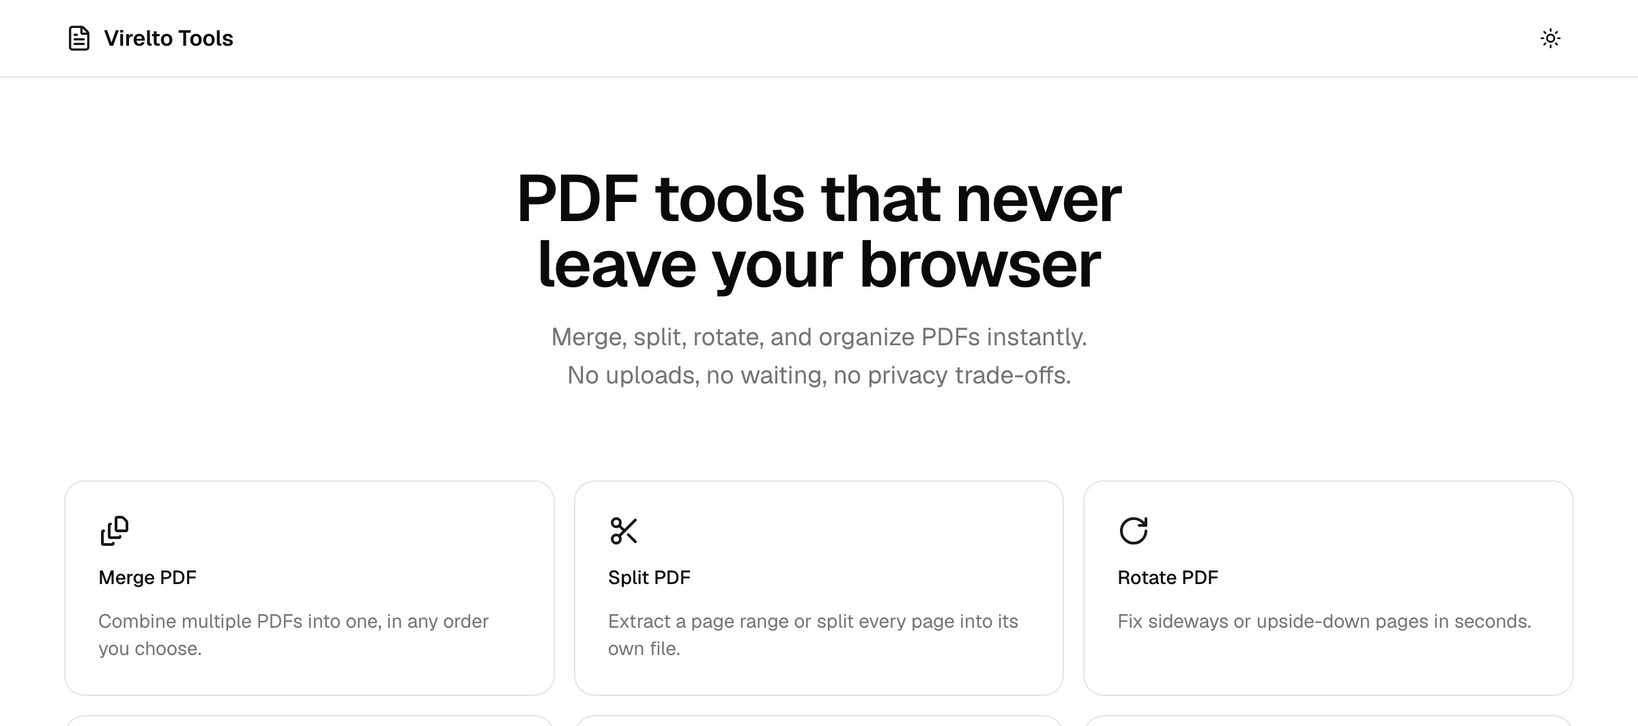
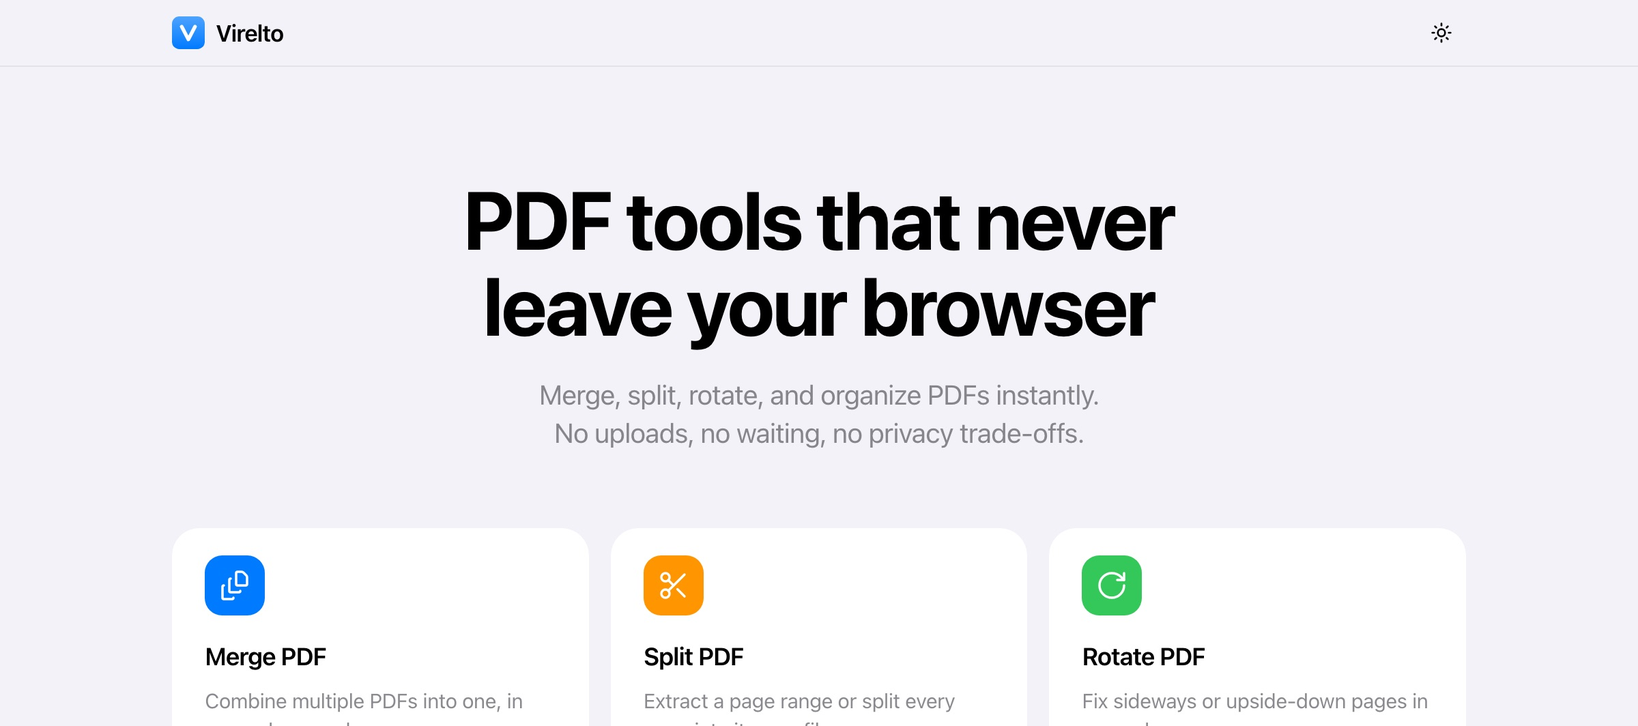
Add Clackey, skeleton image loading, and refresh Virelto
Add the Clackey website card and order the website cards Clackey,
Virelto Tools, Bizu (in the project list and profile.json).

Show a shimmering skeleton while each card's first screenshot loads,
instead of the accent colour. A card with no screenshot, or one whose
image fails to load, falls back to its accent colour.

Update the Virelto screenshot to the site's new look.

diff --git a/css/style.min.css b/css/style.min.css
@@ -1,1 +1,1 @@
-html,body,div,span,applet,object,iframe,h1,h2,h3,h4,h5,h6,p,blockquote,pre,a,abbr,acronym,address,big,cite,code,del,dfn,em,img,ins,kbd,q,s,samp,small,strike,strong,sub,sup,tt,var,b,u,i,center,dl,dt,dd,ol,ul,li,fieldset,form,label,legend,table,caption,tbody,tfoot,thead,tr,th,td,article,aside,canvas,details,embed,figure,figcaption,footer,header,hgroup,menu,nav,output,ruby,section,summary,time,mark,audio,video{margin:0;padding:0;border:0;font-size:100%;font:inherit;vertical-align:baseline}article,aside,details,figcaption,figure,footer,header,hgroup,menu,nav,section,main{display:block}body{line-height:1}ol,ul{list-style:none}blockquote,q{quotes:none}blockquote:before,blockquote:after,q:before,q:after{content:"";content:none}table{border-collapse:collapse;border-spacing:0}*,*::before,*::after{box-sizing:border-box}html,body{font-family:-apple-system,BlinkMacSystemFont,"SF Pro Display","Helvetica Neue",Arial,sans-serif;background:#fff;color:#1d1d1f;scroll-behavior:smooth;user-select:none}html{font-size:112.5%}body{background:rgba(0,0,0,0)}a{color:inherit;text-decoration:none}a:focus-visible,button:focus-visible{outline:2px solid #b81828;outline-offset:3px;border-radius:2px}.skip-link{position:absolute;top:-100px;left:1rem;z-index:1000;padding:.75rem 1.25rem;background:#b81828;color:#fff;border-radius:8px;font-size:.9rem;font-weight:600;transition:top .2s ease}.skip-link:focus{top:1rem}h1,h2{font-family:"Fraunces",Georgia,serif;font-weight:600;letter-spacing:-0.01em}.accent{color:#b81828}.reveal{opacity:0;transform:translateY(24px);transition:opacity .8s ease,transform .8s ease}.reveal.is-visible{opacity:1;transform:translateY(0)}.scroll-progress{position:fixed;top:0;left:0;height:2px;width:0%;background:#58595b;z-index:100;transition:width .1s linear}.stagger-item{opacity:0;transform:translateY(16px);transition:opacity .6s ease,transform .6s ease}.reveal.is-visible .stagger-item{opacity:1;transform:translateY(0)}.reveal.is-visible .stagger-item:nth-child(1){transition-delay:0s}.reveal.is-visible .stagger-item:nth-child(2){transition-delay:0.06s}.reveal.is-visible .stagger-item:nth-child(3){transition-delay:0.12s}.reveal.is-visible .stagger-item:nth-child(4){transition-delay:0.18s}.reveal.is-visible .stagger-item:nth-child(5){transition-delay:0.24s}.reveal.is-visible .stagger-item:nth-child(6){transition-delay:0.3s}.reveal.is-visible .stagger-item:nth-child(7){transition-delay:0.36s}.reveal.is-visible .stagger-item:nth-child(8){transition-delay:0.42s}.reveal.is-visible .stagger-item:nth-child(9){transition-delay:0.48s}.reveal.is-visible .stagger-item:nth-child(10){transition-delay:0.54s}.reveal.is-visible .stagger-item:nth-child(11){transition-delay:0.6s}.reveal.is-visible .stagger-item:nth-child(12){transition-delay:0.66s}.reveal.is-visible .stagger-item:nth-child(13){transition-delay:0.72s}.reveal.is-visible .stagger-item:nth-child(14){transition-delay:0.78s}.reveal.is-visible .stagger-item:nth-child(15){transition-delay:0.84s}.reveal.is-visible .stagger-item:nth-child(16){transition-delay:0.9s}.reveal.is-visible .stagger-item:nth-child(17){transition-delay:0.96s}.reveal.is-visible .stagger-item:nth-child(18){transition-delay:1.02s}.reveal.is-visible .stagger-item:nth-child(19){transition-delay:1.08s}.reveal.is-visible .stagger-item:nth-child(20){transition-delay:1.14s}.site-panel{position:fixed;top:0;right:0;width:35%;height:100vh;background:#2b2b2d;z-index:5;display:flex;align-items:center;justify-content:center;padding:3rem}.site-panel-text{max-width:380px;margin:0;text-align:center;font-family:"Caveat",cursive;font-weight:600;font-size:2.5rem;line-height:1.3;color:rgba(255,255,255,.85);opacity:0;transition:opacity .3s ease}.sr-only{position:absolute;width:1px;height:1px;margin:-1px;padding:0;overflow:hidden;clip:rect(0, 0, 0, 0);white-space:nowrap;border:0}.site-copyright{margin:5rem 0 0;color:#767676;font-size:.75rem}.site-content{width:65%;padding:0 4rem 0 7rem;overflow-x:clip}.site-logo{position:fixed;top:1.5rem;left:1.5rem;z-index:50;width:34px;cursor:pointer;--logo-progress: 0;transform:translateX(calc(-5.95px * var(--logo-progress))) translateY(calc((100vh - 3rem - 20.4px) * var(--logo-progress))) rotate(calc(180deg * var(--logo-progress))) scale(calc(1 - 0.35 * var(--logo-progress)));transition:transform .1s linear}.hero-name{font-size:3rem}.hero-title{margin-top:.6rem;font-size:1.2rem;color:#767676}.hero-role{display:inline-block;transition:opacity .3s ease}.dot-field{position:fixed;top:0;left:0;width:65%;height:100vh;z-index:-1;pointer-events:none}.cursor-ring{position:fixed;top:0;left:0;width:18px;height:18px;margin:-9px 0 0 -9px;border:1.5px solid #fff;border-radius:50%;pointer-events:none;z-index:9999;mix-blend-mode:difference;will-change:transform;opacity:0;transition:opacity .2s ease,width .2s ease,height .2s ease,margin .2s ease}.cursor-ring.is-visible{opacity:1}.cursor-ring.is-active{width:32px;height:32px;margin:-16px 0 0 -16px}html.has-custom-cursor,html.has-custom-cursor *{cursor:none !important}html.has-custom-cursor #foliobot{--fb-cursor: none}.hero-links{position:fixed;top:1.5rem;right:1.5rem;padding-right:3px;z-index:50;display:flex;align-items:center;gap:1.75rem}.hero-links a{color:rgba(255,255,255,.65);font-size:.95rem;font-weight:500;transition:color .3s ease}.hero-links a:hover{color:#fff}.hero-links a.active{color:#b81828}.section{min-height:100vh;display:flex;flex-direction:column;justify-content:center;padding:4rem 0}.section h2{font-size:2.75rem;margin-bottom:2rem}.about-text{font-size:1.35rem;line-height:1.7;color:#767676}.social-links{display:flex;gap:1.5rem}.social-links a{color:#6e6e73;font-size:.9rem;transition:color .3s ease}.social-links a:hover{color:#b81828}.contact-section{text-align:left}.contact-statement{font-family:"Fraunces",Georgia,serif;font-size:2.25rem;font-weight:500;line-height:1.35;max-width:520px}.contact-email{display:inline-block;margin-top:1.75rem;font-family:"Fraunces",Georgia,serif;font-size:1.85rem;font-weight:600;color:#b81828;transition:opacity .3s ease}.contact-email:hover{opacity:.75}.contact-social{margin-top:2.5rem}.experience-list{display:flex;flex-direction:column;gap:2rem}.experience-list li{padding-bottom:1.5rem;border-bottom:1px solid #d2d2d7}.experience-list li:last-child{border-bottom:none;padding-bottom:0}.experience-head{display:flex;justify-content:space-between;align-items:baseline;flex-wrap:wrap;gap:.5rem}.experience-role{font-size:1.1rem;font-weight:600}.experience-period{color:#6e6e73;font-size:.85rem}.experience-company{display:block;color:#b81828;font-size:.9rem;margin:.2rem 0 .6rem}.experience-list p{color:#767676;font-size:.95rem;line-height:1.55}.projects-list{display:grid;grid-template-columns:repeat(3, 1fr);gap:1.25rem}.project-item{min-width:0}.project-item a,.project-item div{display:flex;flex-direction:column;justify-content:flex-end;position:relative;overflow:hidden;aspect-ratio:600/1299;height:100%;padding:1.25rem;border-radius:16px;color:#fff;transition:transform .3s ease,box-shadow .3s ease}.project-item a:hover{transform:translateY(-4px);box-shadow:0 20px 32px -12px rgba(0,0,0,.35)}.project-item.one a,.project-item.one div{background:#b81828}.project-item.two a,.project-item.two div{background:#585858}.project-item.three a,.project-item.three div{background:#8a121e}.project-item.four a,.project-item.four div{background:#585858}.project-item.five a,.project-item.five div{background:#b81828}.project-item.six a,.project-item.six div{background:#0c4293}.project-item--wide{grid-column:1/-1}.project-item--wide a,.project-item--wide div{aspect-ratio:2/1}.project-gallery{position:absolute;inset:0;z-index:0;display:flex;overflow-x:auto;overflow-y:hidden;overscroll-behavior-x:contain;scroll-snap-type:x mandatory;-webkit-overflow-scrolling:touch;scrollbar-width:none}.project-gallery::-webkit-scrollbar{display:none}.project-shot{flex:0 0 100%;width:100%;height:100%;object-fit:cover;scroll-snap-align:start;display:block}.project-shot--landscape{object-fit:contain;background:#2b2b2d}.project-shade{position:absolute;inset:0;z-index:0;pointer-events:none;background:linear-gradient(to top, rgba(0, 0, 0, 0.8) 0%, rgba(0, 0, 0, 0.55) 18%, rgba(0, 0, 0, 0) 35%)}.project-icon{position:absolute;top:-16%;right:-12%;width:75%;max-height:130%;object-fit:contain;opacity:.28;filter:brightness(0) invert(1);-webkit-mask-image:radial-gradient(circle at 70% 30%, rgb(0, 0, 0) 0%, rgba(0, 0, 0, 0.5) 45%, rgba(0, 0, 0, 0) 75%);mask-image:radial-gradient(circle at 70% 30%, rgb(0, 0, 0) 0%, rgba(0, 0, 0, 0.5) 45%, rgba(0, 0, 0, 0) 75%);pointer-events:none;z-index:0}.project-name{position:relative;z-index:1;display:block;font-family:"Fraunces",Georgia,serif;font-size:1.15rem;font-weight:600;margin-bottom:.35rem}.project-desc{position:relative;z-index:1;display:block;color:rgba(255,255,255,.8);font-size:.8rem}.project-stats{position:relative;z-index:1;display:flex;flex-wrap:wrap;gap:.6rem;margin-top:.5rem}.project-stat{font-size:.72rem;letter-spacing:.02em;color:rgba(255,255,255,.7);background:rgba(255,255,255,.15);border-radius:999px;padding:.2rem .6rem}@media(prefers-reduced-motion: reduce){html{scroll-behavior:auto;scroll-snap-type:none}.reveal,.stagger-item,.project-item a,.contact-email,.social-links a,.hero-links a,.site-logo{transition:none !important}.reveal,.stagger-item{opacity:1 !important;transform:none !important}}@media(max-width: 900px){.site-panel{display:none}.dot-field{width:100%}.site-content{width:100%;padding:0 1.5rem}.site-topbar{position:sticky;top:0;z-index:55;display:flex;align-items:center;justify-content:space-between;gap:1rem;padding:1rem 1.5rem;background:#fff;transition:transform .3s ease}.site-topbar.is-hidden{transform:translateY(-100%)}.site-logo{position:static;display:block;width:32px;margin:0}.section{min-height:auto;justify-content:flex-start}.hero-links{position:static;margin:0;padding:0;gap:1.1rem;justify-content:flex-end;flex-wrap:nowrap}.hero-links a{color:#6e6e73;font-size:.85rem}.hero-links a:hover{color:#1d1d1f}.projects-list{grid-template-columns:repeat(2, 1fr)}.project-item--wide a,.project-item--wide div{aspect-ratio:16/10}}@media(min-width: 700px)and (max-width: 900px){.projects-list{grid-template-columns:repeat(3, 1fr)}}@media(max-width: 600px){html{font-size:100%}.hero-name{font-size:2.2rem}.hero-title{font-size:1rem}.section{padding:4rem 0}.section h2{font-size:2rem;margin-bottom:1.25rem}.about-text{font-size:1.05rem}.contact-statement{font-size:1.75rem}.contact-email{font-size:1.5rem}.projects-list{grid-template-columns:repeat(2, 1fr);gap:.75rem}}/*# sourceMappingURL=style.min.css.map */
+html,body,div,span,applet,object,iframe,h1,h2,h3,h4,h5,h6,p,blockquote,pre,a,abbr,acronym,address,big,cite,code,del,dfn,em,img,ins,kbd,q,s,samp,small,strike,strong,sub,sup,tt,var,b,u,i,center,dl,dt,dd,ol,ul,li,fieldset,form,label,legend,table,caption,tbody,tfoot,thead,tr,th,td,article,aside,canvas,details,embed,figure,figcaption,footer,header,hgroup,menu,nav,output,ruby,section,summary,time,mark,audio,video{margin:0;padding:0;border:0;font-size:100%;font:inherit;vertical-align:baseline}article,aside,details,figcaption,figure,footer,header,hgroup,menu,nav,section,main{display:block}body{line-height:1}ol,ul{list-style:none}blockquote,q{quotes:none}blockquote:before,blockquote:after,q:before,q:after{content:"";content:none}table{border-collapse:collapse;border-spacing:0}*,*::before,*::after{box-sizing:border-box}html,body{font-family:-apple-system,BlinkMacSystemFont,"SF Pro Display","Helvetica Neue",Arial,sans-serif;background:#fff;color:#1d1d1f;scroll-behavior:smooth;user-select:none}html{font-size:112.5%}body{background:rgba(0,0,0,0)}a{color:inherit;text-decoration:none}a:focus-visible,button:focus-visible{outline:2px solid #b81828;outline-offset:3px;border-radius:2px}.skip-link{position:absolute;top:-100px;left:1rem;z-index:1000;padding:.75rem 1.25rem;background:#b81828;color:#fff;border-radius:8px;font-size:.9rem;font-weight:600;transition:top .2s ease}.skip-link:focus{top:1rem}h1,h2{font-family:"Fraunces",Georgia,serif;font-weight:600;letter-spacing:-0.01em}.accent{color:#b81828}.reveal{opacity:0;transform:translateY(24px);transition:opacity .8s ease,transform .8s ease}.reveal.is-visible{opacity:1;transform:translateY(0)}.scroll-progress{position:fixed;top:0;left:0;height:2px;width:0%;background:#58595b;z-index:100;transition:width .1s linear}.stagger-item{opacity:0;transform:translateY(16px);transition:opacity .6s ease,transform .6s ease}.reveal.is-visible .stagger-item{opacity:1;transform:translateY(0)}.reveal.is-visible .stagger-item:nth-child(1){transition-delay:0s}.reveal.is-visible .stagger-item:nth-child(2){transition-delay:0.06s}.reveal.is-visible .stagger-item:nth-child(3){transition-delay:0.12s}.reveal.is-visible .stagger-item:nth-child(4){transition-delay:0.18s}.reveal.is-visible .stagger-item:nth-child(5){transition-delay:0.24s}.reveal.is-visible .stagger-item:nth-child(6){transition-delay:0.3s}.reveal.is-visible .stagger-item:nth-child(7){transition-delay:0.36s}.reveal.is-visible .stagger-item:nth-child(8){transition-delay:0.42s}.reveal.is-visible .stagger-item:nth-child(9){transition-delay:0.48s}.reveal.is-visible .stagger-item:nth-child(10){transition-delay:0.54s}.reveal.is-visible .stagger-item:nth-child(11){transition-delay:0.6s}.reveal.is-visible .stagger-item:nth-child(12){transition-delay:0.66s}.reveal.is-visible .stagger-item:nth-child(13){transition-delay:0.72s}.reveal.is-visible .stagger-item:nth-child(14){transition-delay:0.78s}.reveal.is-visible .stagger-item:nth-child(15){transition-delay:0.84s}.reveal.is-visible .stagger-item:nth-child(16){transition-delay:0.9s}.reveal.is-visible .stagger-item:nth-child(17){transition-delay:0.96s}.reveal.is-visible .stagger-item:nth-child(18){transition-delay:1.02s}.reveal.is-visible .stagger-item:nth-child(19){transition-delay:1.08s}.reveal.is-visible .stagger-item:nth-child(20){transition-delay:1.14s}.site-panel{position:fixed;top:0;right:0;width:35%;height:100vh;background:#2b2b2d;z-index:5;display:flex;align-items:center;justify-content:center;padding:3rem}.site-panel-text{max-width:380px;margin:0;text-align:center;font-family:"Caveat",cursive;font-weight:600;font-size:2.5rem;line-height:1.3;color:rgba(255,255,255,.85);opacity:0;transition:opacity .3s ease}.sr-only{position:absolute;width:1px;height:1px;margin:-1px;padding:0;overflow:hidden;clip:rect(0, 0, 0, 0);white-space:nowrap;border:0}.site-copyright{margin:5rem 0 0;color:#767676;font-size:.75rem}.site-content{width:65%;padding:0 4rem 0 7rem;overflow-x:clip}.site-logo{position:fixed;top:1.5rem;left:1.5rem;z-index:50;width:34px;cursor:pointer;--logo-progress: 0;transform:translateX(calc(-5.95px * var(--logo-progress))) translateY(calc((100vh - 3rem - 20.4px) * var(--logo-progress))) rotate(calc(180deg * var(--logo-progress))) scale(calc(1 - 0.35 * var(--logo-progress)));transition:transform .1s linear}.hero-name{font-size:3rem}.hero-title{margin-top:.6rem;font-size:1.2rem;color:#767676}.hero-role{display:inline-block;transition:opacity .3s ease}.dot-field{position:fixed;top:0;left:0;width:65%;height:100vh;z-index:-1;pointer-events:none}.cursor-ring{position:fixed;top:0;left:0;width:18px;height:18px;margin:-9px 0 0 -9px;border:1.5px solid #fff;border-radius:50%;pointer-events:none;z-index:9999;mix-blend-mode:difference;will-change:transform;opacity:0;transition:opacity .2s ease,width .2s ease,height .2s ease,margin .2s ease}.cursor-ring.is-visible{opacity:1}.cursor-ring.is-active{width:32px;height:32px;margin:-16px 0 0 -16px}html.has-custom-cursor,html.has-custom-cursor *{cursor:none !important}html.has-custom-cursor #foliobot{--fb-cursor: none}.hero-links{position:fixed;top:1.5rem;right:1.5rem;padding-right:3px;z-index:50;display:flex;align-items:center;gap:1.75rem}.hero-links a{color:rgba(255,255,255,.65);font-size:.95rem;font-weight:500;transition:color .3s ease}.hero-links a:hover{color:#fff}.hero-links a.active{color:#b81828}.section{min-height:100vh;display:flex;flex-direction:column;justify-content:center;padding:4rem 0}.section h2{font-size:2.75rem;margin-bottom:2rem}.about-text{font-size:1.35rem;line-height:1.7;color:#767676}.social-links{display:flex;gap:1.5rem}.social-links a{color:#6e6e73;font-size:.9rem;transition:color .3s ease}.social-links a:hover{color:#b81828}.contact-section{text-align:left}.contact-statement{font-family:"Fraunces",Georgia,serif;font-size:2.25rem;font-weight:500;line-height:1.35;max-width:520px}.contact-email{display:inline-block;margin-top:1.75rem;font-family:"Fraunces",Georgia,serif;font-size:1.85rem;font-weight:600;color:#b81828;transition:opacity .3s ease}.contact-email:hover{opacity:.75}.contact-social{margin-top:2.5rem}.experience-list{display:flex;flex-direction:column;gap:2rem}.experience-list li{padding-bottom:1.5rem;border-bottom:1px solid #d2d2d7}.experience-list li:last-child{border-bottom:none;padding-bottom:0}.experience-head{display:flex;justify-content:space-between;align-items:baseline;flex-wrap:wrap;gap:.5rem}.experience-role{font-size:1.1rem;font-weight:600}.experience-period{color:#6e6e73;font-size:.85rem}.experience-company{display:block;color:#b81828;font-size:.9rem;margin:.2rem 0 .6rem}.experience-list p{color:#767676;font-size:.95rem;line-height:1.55}.projects-list{display:grid;grid-template-columns:repeat(3, 1fr);gap:1.25rem}.project-item{min-width:0}.project-item a,.project-item div{display:flex;flex-direction:column;justify-content:flex-end;position:relative;overflow:hidden;aspect-ratio:600/1299;height:100%;padding:1.25rem;border-radius:16px;color:#fff;background:#2b2b2d;transition:transform .3s ease,box-shadow .3s ease}.project-item a:hover{transform:translateY(-4px);box-shadow:0 20px 32px -12px rgba(0,0,0,.35)}.project-item.is-loading a,.project-item.is-loading div{background:linear-gradient(100deg, #2b2b2d 30%, #3d3d40 50%, #2b2b2d 70%);background-size:200% 100%;animation:project-skeleton 2s linear infinite}.project-item.is-loading .project-gallery{opacity:0}.project-item.is-fallback.one a,.project-item.is-fallback.one div{background:#b81828}.project-item.is-fallback.two a,.project-item.is-fallback.two div{background:#585858}.project-item.is-fallback.three a,.project-item.is-fallback.three div{background:#8a121e}.project-item.is-fallback.four a,.project-item.is-fallback.four div{background:#585858}.project-item.is-fallback.five a,.project-item.is-fallback.five div{background:#b81828}.project-item.is-fallback.six a,.project-item.is-fallback.six div{background:#0c4293}@keyframes project-skeleton{from{background-position:200% 0}to{background-position:-200% 0}}.project-item--wide{grid-column:1/-1}.project-item--wide a,.project-item--wide div{aspect-ratio:2/1}.project-gallery{position:absolute;inset:0;z-index:0;display:flex;overflow-x:auto;overflow-y:hidden;overscroll-behavior-x:contain;scroll-snap-type:x mandatory;-webkit-overflow-scrolling:touch;scrollbar-width:none;transition:opacity .4s ease}.project-gallery::-webkit-scrollbar{display:none}.project-shot{flex:0 0 100%;width:100%;height:100%;object-fit:cover;scroll-snap-align:start;display:block}.project-shot--landscape{object-fit:contain;background:#2b2b2d}.project-shade{position:absolute;inset:0;z-index:0;pointer-events:none;background:linear-gradient(to top, rgba(0, 0, 0, 0.8) 0%, rgba(0, 0, 0, 0.55) 18%, rgba(0, 0, 0, 0) 35%)}.project-icon{position:absolute;top:-16%;right:-12%;width:75%;max-height:130%;object-fit:contain;opacity:.28;filter:brightness(0) invert(1);-webkit-mask-image:radial-gradient(circle at 70% 30%, rgb(0, 0, 0) 0%, rgba(0, 0, 0, 0.5) 45%, rgba(0, 0, 0, 0) 75%);mask-image:radial-gradient(circle at 70% 30%, rgb(0, 0, 0) 0%, rgba(0, 0, 0, 0.5) 45%, rgba(0, 0, 0, 0) 75%);pointer-events:none;z-index:0}.project-name{position:relative;z-index:1;display:block;font-family:"Fraunces",Georgia,serif;font-size:1.15rem;font-weight:600;margin-bottom:.35rem}.project-desc{position:relative;z-index:1;display:block;color:rgba(255,255,255,.8);font-size:.8rem}.project-stats{position:relative;z-index:1;display:flex;flex-wrap:wrap;gap:.6rem;margin-top:.5rem}.project-stat{font-size:.72rem;letter-spacing:.02em;color:rgba(255,255,255,.7);background:rgba(255,255,255,.15);border-radius:999px;padding:.2rem .6rem}@media(prefers-reduced-motion: reduce){html{scroll-behavior:auto;scroll-snap-type:none}.reveal,.stagger-item,.project-item a,.project-gallery,.contact-email,.social-links a,.hero-links a,.site-logo{transition:none !important}.reveal,.stagger-item{opacity:1 !important;transform:none !important}.project-item.is-loading a,.project-item.is-loading div{animation:none}}@media(max-width: 900px){.site-panel{display:none}.dot-field{width:100%}.site-content{width:100%;padding:0 1.5rem}.site-topbar{position:sticky;top:0;z-index:55;display:flex;align-items:center;justify-content:space-between;gap:1rem;padding:1rem 1.5rem;background:#fff;transition:transform .3s ease}.site-topbar.is-hidden{transform:translateY(-100%)}.site-logo{position:static;display:block;width:32px;margin:0}.section{min-height:auto;justify-content:flex-start}.hero-links{position:static;margin:0;padding:0;gap:1.1rem;justify-content:flex-end;flex-wrap:nowrap}.hero-links a{color:#6e6e73;font-size:.85rem}.hero-links a:hover{color:#1d1d1f}.projects-list{grid-template-columns:repeat(2, 1fr)}.project-item--wide a,.project-item--wide div{aspect-ratio:16/10}}@media(min-width: 700px)and (max-width: 900px){.projects-list{grid-template-columns:repeat(3, 1fr)}}@media(max-width: 600px){html{font-size:100%}.hero-name{font-size:2.2rem}.hero-title{font-size:1rem}.section{padding:4rem 0}.section h2{font-size:2rem;margin-bottom:1.25rem}.about-text{font-size:1.05rem}.contact-statement{font-size:1.75rem}.contact-email{font-size:1.5rem}.projects-list{grid-template-columns:repeat(2, 1fr);gap:.75rem}}/*# sourceMappingURL=style.min.css.map */

diff --git a/css/scss/_base.scss b/css/scss/_base.scss
@@ -396,6 +396,8 @@ html.has-custom-cursor #foliobot {
         padding: 1.25rem;
         border-radius: 16px;
         color: #fff;
+        // Neutral base, so no accent colour flashes through while a screenshot fades in.
+        background: $charcoaldark;
         transition: transform 0.3s ease, box-shadow 0.3s ease;
     }
 
@@ -404,12 +406,32 @@ html.has-custom-cursor #foliobot {
         box-shadow: 0 20px 32px -12px rgba(0, 0, 0, 0.35);
     }
 
-    &.one a, &.one div { background: $colorOne; }
-    &.two a, &.two div { background: $colorTwo; }
-    &.three a, &.three div { background: $colorThree; }
-    &.four a, &.four div { background: $colorFour; }
-    &.five a, &.five div { background: $colorFive; }
-    &.six a, &.six div { background: $colorSix; }
+    // While the first screenshot loads: a shimmering skeleton. The screenshots stay hidden
+    // until then, then fade in (see .project-gallery).
+    &.is-loading a,
+    &.is-loading div {
+        background: linear-gradient(100deg, $charcoaldark 30%, #3d3d40 50%, $charcoaldark 70%);
+        background-size: 200% 100%;
+        animation: project-skeleton 2s linear infinite;
+    }
+
+    &.is-loading .project-gallery {
+        opacity: 0;
+    }
+
+    // The accent colour is only a fallback: no screenshots, or the first one failed to load.
+    &.is-fallback.one a, &.is-fallback.one div { background: $colorOne; }
+    &.is-fallback.two a, &.is-fallback.two div { background: $colorTwo; }
+    &.is-fallback.three a, &.is-fallback.three div { background: $colorThree; }
+    &.is-fallback.four a, &.is-fallback.four div { background: $colorFour; }
+    &.is-fallback.five a, &.is-fallback.five div { background: $colorFive; }
+    &.is-fallback.six a, &.is-fallback.six div { background: $colorSix; }
+}
+
+// 200% of the gradient tile per half-cycle, so the loop is seamless.
+@keyframes project-skeleton {
+    from { background-position: 200% 0; }
+    to { background-position: -200% 0; }
 }
 
 .project-item--wide {
@@ -432,6 +454,7 @@ html.has-custom-cursor #foliobot {
     scroll-snap-type: x mandatory;
     -webkit-overflow-scrolling: touch;
     scrollbar-width: none;
+    transition: opacity 0.4s ease;
 
     &::-webkit-scrollbar {
         display: none;
@@ -520,6 +543,7 @@ html.has-custom-cursor #foliobot {
     .reveal,
     .stagger-item,
     .project-item a,
+    .project-gallery,
     .contact-email,
     .social-links a,
     .hero-links a,
@@ -531,6 +555,12 @@ html.has-custom-cursor #foliobot {
     .stagger-item {
         opacity: 1 !important;
         transform: none !important;
+    }
+
+    // Static placeholder instead of a moving shimmer.
+    .project-item.is-loading a,
+    .project-item.is-loading div {
+        animation: none;
     }
 
     // Auto-scroll itself is suppressed in JS when this preference is set;

diff --git a/js/app.js b/js/app.js
@@ -118,12 +118,12 @@ var projects = [
         rating: { score: 5.0, count: 2 }
     },
     {
-        name: 'Bizu',
-        description: 'Online ordering for a patisserie and cafe.',
-        link: 'https://bizu.ph/',
-        screenshots: ['images/work/Bizu/1.jpg'],
+        name: 'Clackey',
+        description: 'Mechanical keyboard sounds for your MacBook.',
+        link: 'https://aakocval.github.io/clackey/',
+        screenshots: ['images/work/Clackey/1.jpg'],
         wide: true,
-        misc: 'two'
+        misc: 'five'
     },
     {
         name: 'Virelto Tools',
@@ -132,6 +132,14 @@ var projects = [
         screenshots: ['images/work/Virelto/1.jpg'],
         wide: true,
         misc: 'three'
+    },
+    {
+        name: 'Bizu',
+        description: 'Online ordering for a patisserie and cafe.',
+        link: 'https://bizu.ph/',
+        screenshots: ['images/work/Bizu/1.jpg'],
+        wide: true,
+        misc: 'two'
     }
 ];
 
@@ -143,6 +151,23 @@ function esc(value) {
 
 function safeUrl(url) {
     return /^https?:\/\//i.test(url) ? url : '#';
+}
+
+// Cards render in the `is-loading` state: a shimmering skeleton (see _base.scss) instead of a colour.
+// It clears when the card's first screenshot has loaded. If that image fails, the card gets
+// `is-fallback` and shows its accent colour, so a broken image never leaves a card shimmering forever.
+function watchProjectImages(list) {
+    list.querySelectorAll('.project-item.is-loading').forEach(function (item) {
+        var img = item.querySelector('.project-shot');
+        function settle(ok) {
+            item.classList.remove('is-loading');
+            if (!ok) item.classList.add('is-fallback');
+        }
+        if (!img) return settle(false);
+        if (img.complete) return settle(img.naturalWidth > 0);
+        img.addEventListener('load', function () { settle(true); }, { once: true });
+        img.addEventListener('error', function () { settle(false); }, { once: true });
+    });
 }
 
 function renderProjects() {
@@ -177,7 +202,7 @@ function renderProjects() {
         }
         var statsMarkup = stats ? '<span class="project-stats">' + stats + '</span>' : '';
         return (
-            '<li class="project-item stagger-item ' + esc(project.misc) + (project.wide ? ' project-item--wide' : '') + '">' +
+            '<li class="project-item stagger-item ' + esc(project.misc) + (project.wide ? ' project-item--wide' : '') + (gallery ? ' is-loading' : ' is-fallback') + '">' +
             '<' + tag + linkAttrs + '>' +
             gallery +
             '<span class="project-name">' + esc(project.name) + '</span>' +
@@ -187,6 +212,7 @@ function renderProjects() {
             '</li>'
         );
     }).join('');
+    watchProjectImages(list);
 }
 
 function initReveal() {

diff --git a/CLAUDE.md b/CLAUDE.md
@@ -59,8 +59,12 @@ Cards are sorted at render time by rating count (score as tiebreaker), with unra
 
 Screenshots live under `images/work/<ProjectName>/N.jpg`; a logo (when set) goes under `images/logos/<name>.png`.
 
-Note: `initProjectColorShuffle()` randomly reassigns each project card's `one`–`five` (not `six`) color class every time the Work section scrolls into view — the `misc` value in the data is only the initial/fallback color, not a fixed per-project color.
+Note: `initProjectColorShuffle()` randomly reassigns each project card's `one`–`five` (not `six`) color class every time the Work section scrolls into view. Since the loading skeleton replaced the colored card background, that color is only visible on **fallback** cards (see below); `misc` is just the initial value.
+
+### Card Loading (skeleton)
+
+Cards render in the `is-loading` state: a neutral dark base with a shimmering skeleton (`@keyframes project-skeleton` in `_base.scss`), with the screenshots hidden. `watchProjectImages()` in `js/app.js` clears it when the card's first screenshot has loaded, and the gallery fades in. A card with no screenshots, or whose first screenshot fails to load, gets `is-fallback` and shows its accent color (`one`–`six`) instead, so a broken image never shimmers forever. `prefers-reduced-motion` turns the shimmer and fade off.
 
 ### Per-project Theming
 
-Accent colors are defined in `css/scss/_variables.scss` as `$colorOne`–`$colorSix` (`six` is reserved for the mWell brand blue and is not part of the shuffle pool). These colors are applied via the project card's `one`–`six` class to accents like the card name and shade overlay.
+Accent colors are defined in `css/scss/_variables.scss` as `$colorOne`–`$colorSix` (`six` is reserved for the mWell brand blue and is not part of the shuffle pool). They are applied through the card's `one`–`six` class, but only as the **fallback** background (`.is-fallback`) for cards with no screenshot or a failed image load; normal cards show their screenshot over a neutral base.
